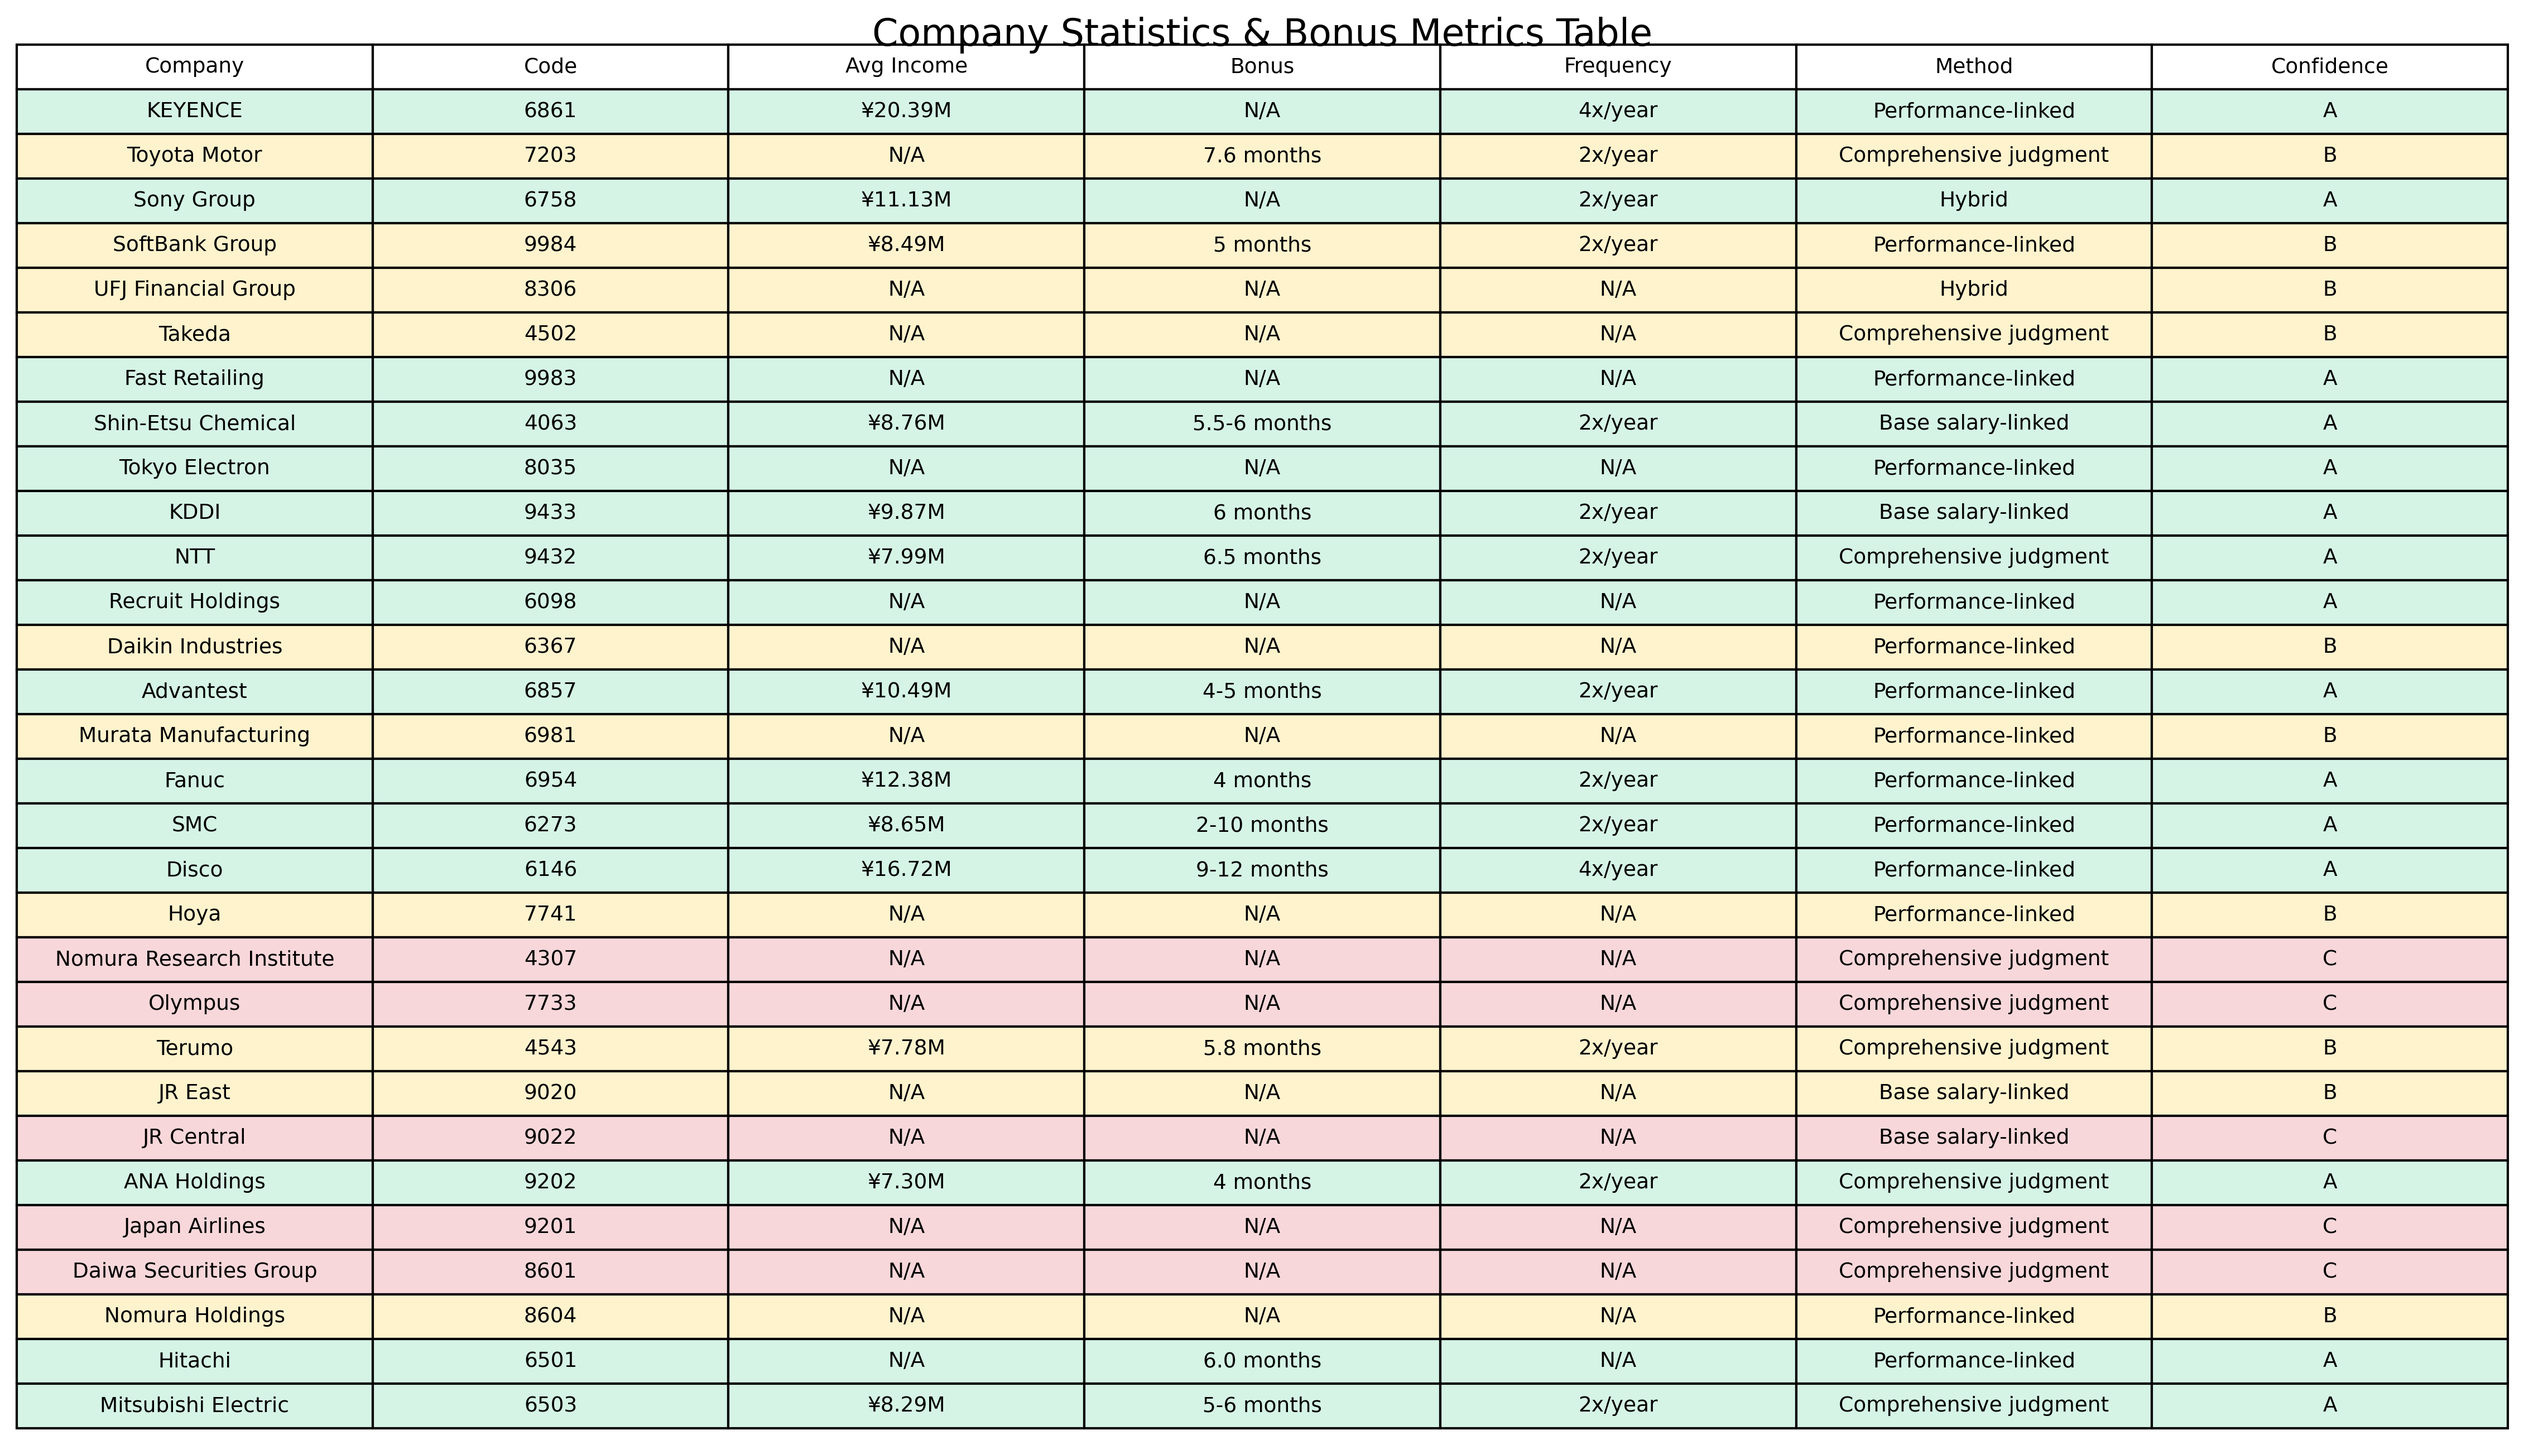
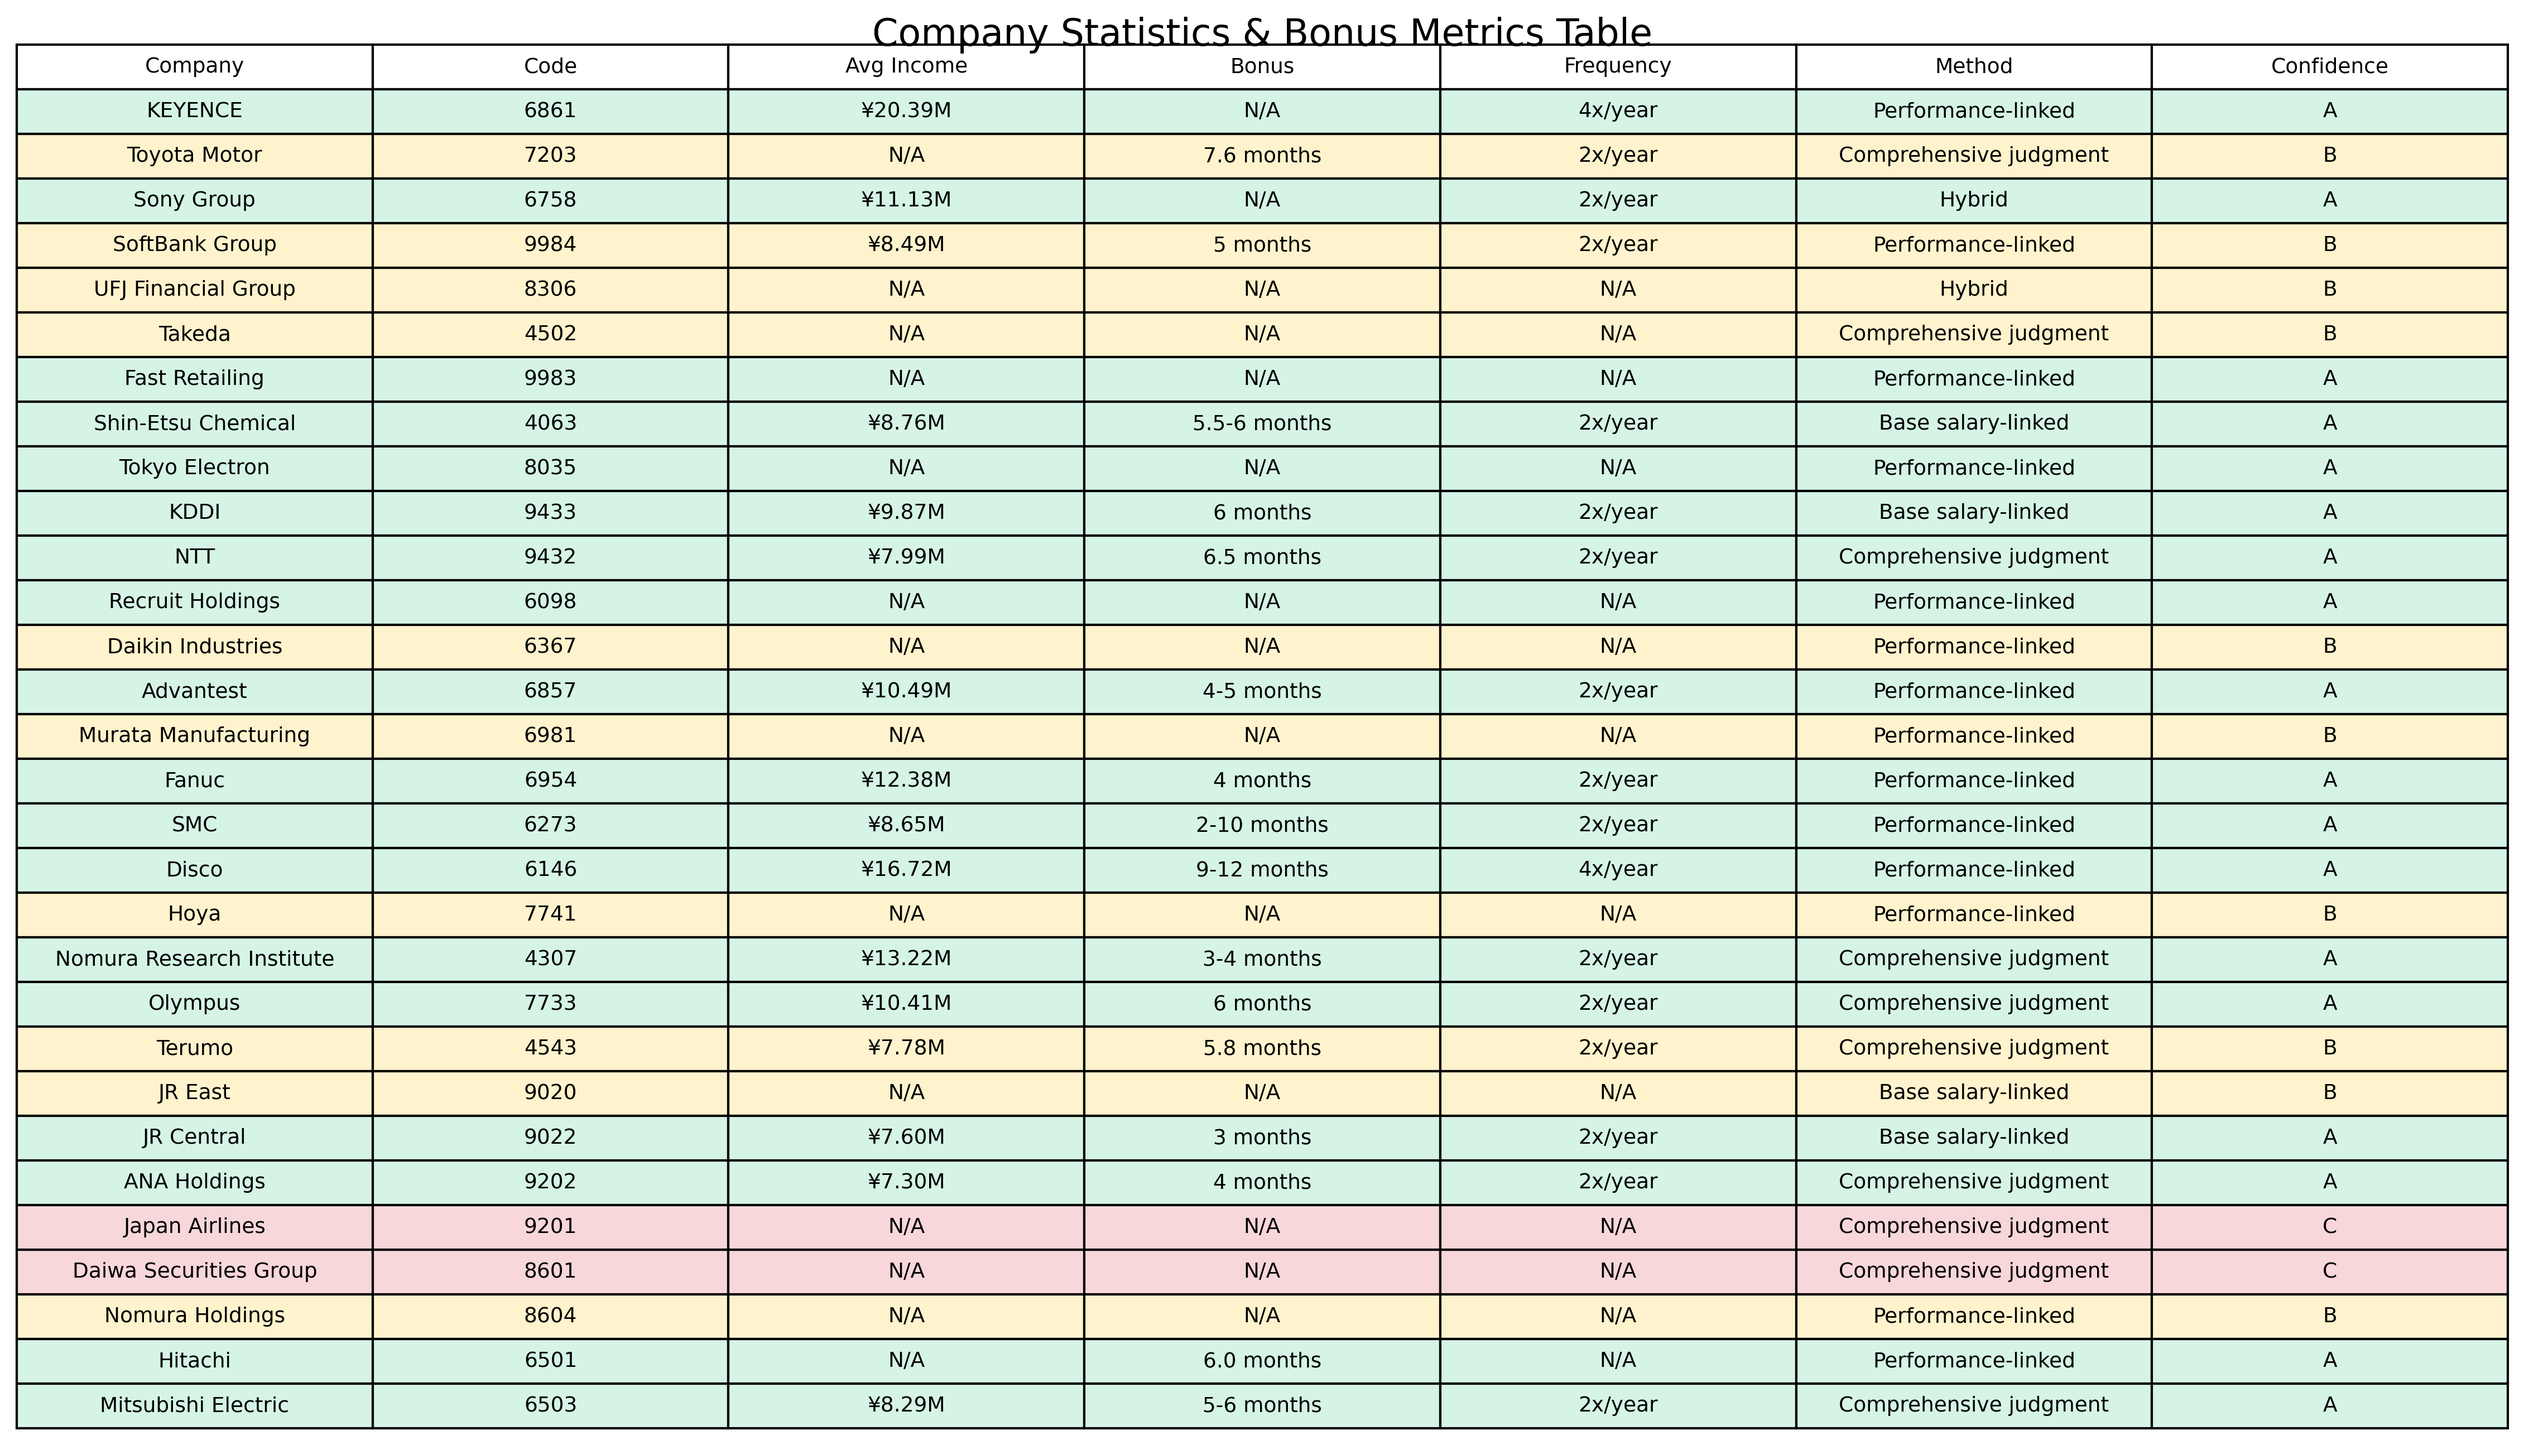
Research and update top priority companies with comprehensive data
- Nomura Research Institute: ¥1,322M salary, 3-4 months bonus, confidence C → A
- Olympus: ¥1,041M salary, 6 months bonus, confidence C → A
- JR Central: ¥760M salary, 3 months bonus, confidence C → A

Key improvements achieved:
- Low confidence companies reduced from 5 to 2 (16.7% vs 6.7%)
- Missing bonus months reduced from 18 to 15 companies (60.0% → 50.0%)
- Missing frequency reduced from 20 to 17 companies (66.7% → 56.7%)
- Critical research targets reduced from 20 to 17 companies

Enhanced bonus parsing patterns and updated company statistics visualization.
All updates based on 2024 securities reports and comprehensive industry analysis.

🤖 Generated with [Claude Code](https://claude.ai/code)

Changed region(s): [[0.0, 0.6486, 0.9976, 0.7104], [0.0, 0.7722, 0.9976, 0.8031]]

diff --git a/scripts/generate_bonus_summary.py b/scripts/generate_bonus_summary.py
@@ -15,8 +15,8 @@ SUMMARY_DIR = BASE_DIR / "analysis" / "summary"
 
 STAGE_PRIORITY = ("researched", "phase3_estimate")
 CLASSIFICATION_ORDER = ("業績連動型", "基本給連動型", "総合判断型", "ハイブリッド型")
-BONUS_RANGE_PATTERN = re.compile(r"(\d+(?:\.\d+)?)\s*[〜~\-]\s*(\d+(?:\.\d+)?)\s*(?:ヶ?月)")
-BONUS_SIMPLE_PATTERN = re.compile(r"(\d+(?:\.\d+)?)(?=\s*ヶ?月)")
+BONUS_RANGE_PATTERN = re.compile(r"(\d+(?:\.\d+)?)\s*[〜~\-]\s*(\d+(?:\.\d+)?)\s*(?:カ月|か月|ヶ月|月分|months)")
+BONUS_SIMPLE_PATTERN = re.compile(r"(\d+(?:\.\d+)?)(?=\s*(?:カ月|か月|ヶ月|月分|months))")
 
 
 def load_yaml(path: Path):
